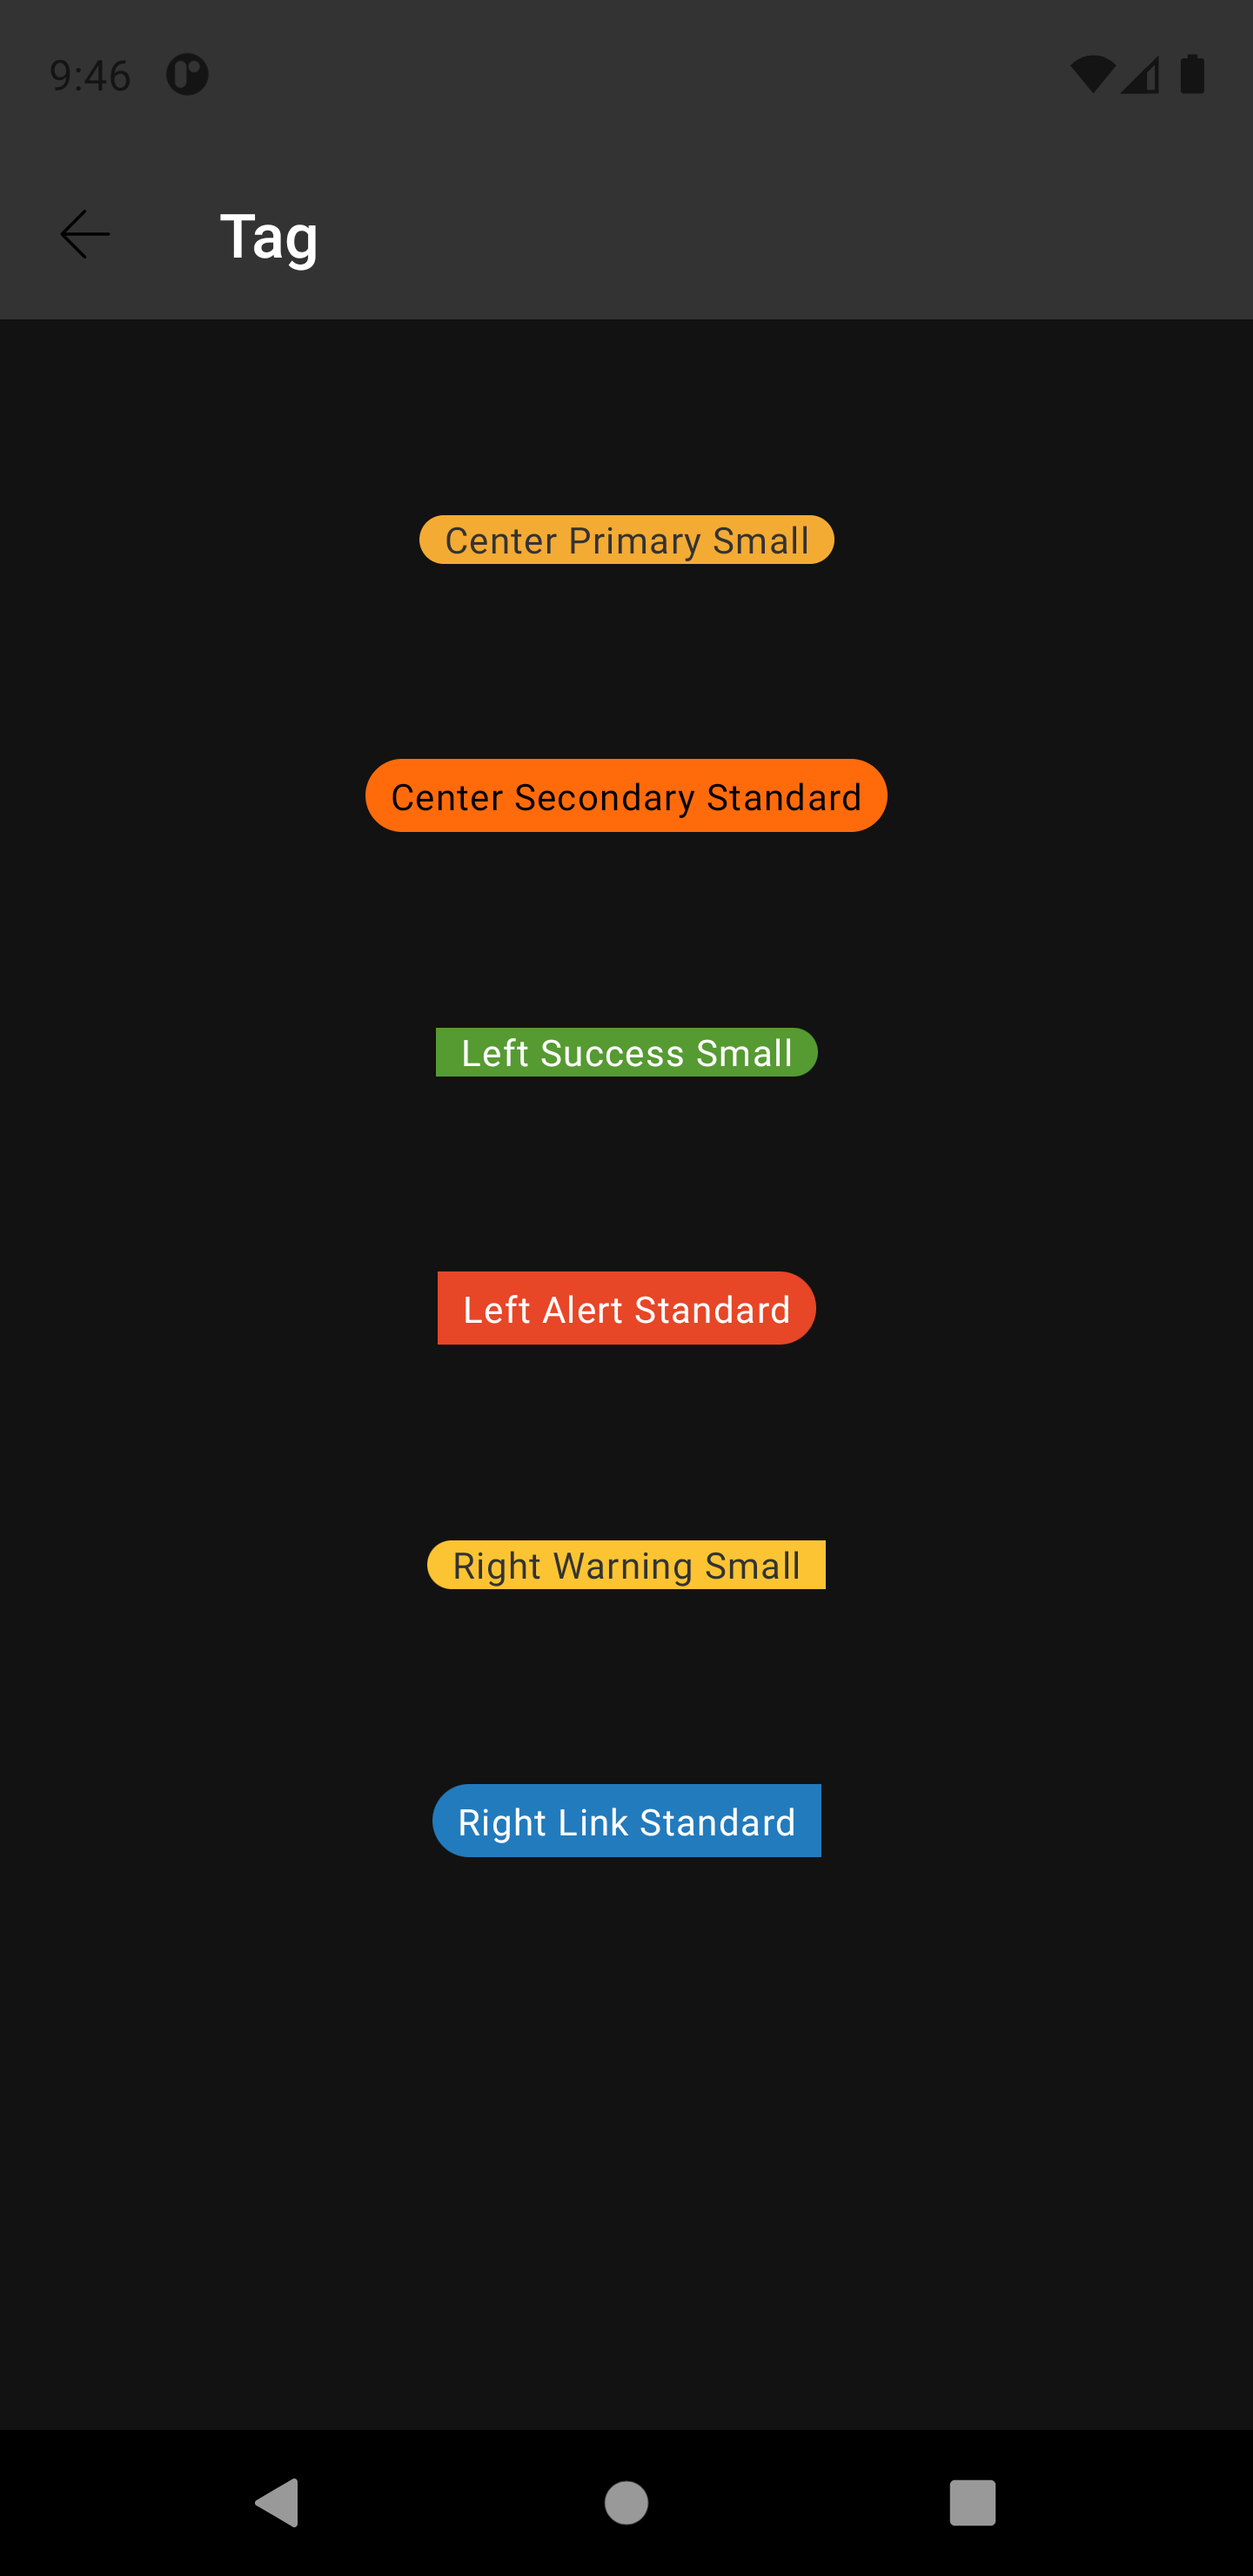
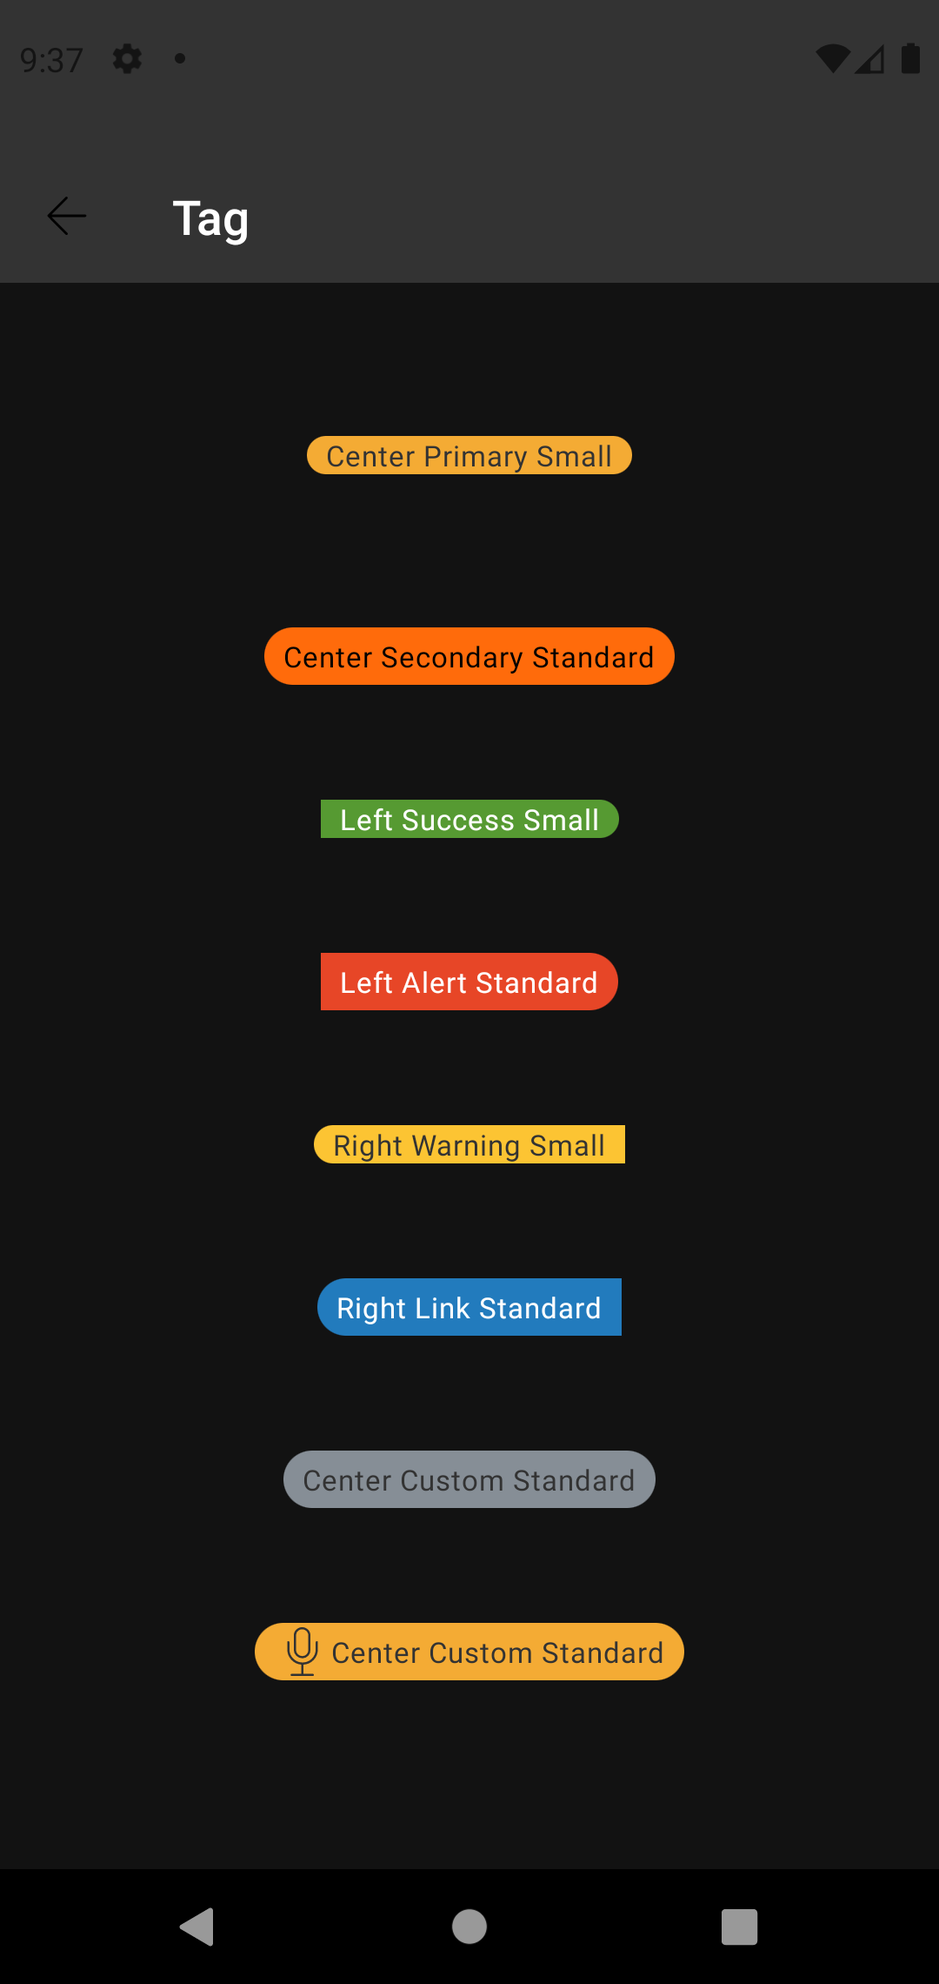
feat: adds tests and refactor documentation of tag Component

diff --git a/designsystem/src/test/kotlin/com/natura/android/tag/TagFixture.kt b/designsystem/src/test/kotlin/com/natura/android/tag/TagFixture.kt
@@ -6,10 +6,13 @@ import com.natura.android.R
 import org.robolectric.Robolectric
 
 internal class TagFixture private constructor(
-    private var type: Int = 0,
-    private var size: Int = 0,
-    private var position: Int = 0,
+    private var type: Int? = 0,
+    private var size: Int? = 0,
+    private var position: Int? = 0,
     private var label: String? = null,
+    private var icon: Int? = null,
+    private var backgroundColor: Int? = 0,
+    private var labelColor: Int? = 0,
     private var context: Context = ApplicationProvider.getApplicationContext()
 ) {
 
@@ -20,6 +23,7 @@ internal class TagFixture private constructor(
         private const val SUCCESS = 3
         private const val WARNING = 4
         private const val LINK = 5
+        private const val CUSTOM = 6
 
         private const val SMALL = 0
         private const val STANDARD = 1
@@ -32,11 +36,24 @@ internal class TagFixture private constructor(
         private const val defaultSize = SMALL
         private const val defaultPosition = CENTER
         private const val defaultLabel = "tag label"
+
+        private val defaultIcon = null
+        private const val defaultBackgroundColor = 1
+        private const val defaultLabelColor = 1
         private var context = ApplicationProvider.getApplicationContext<Context>()
 
         fun aTag(): TagFixture {
             context.setTheme(R.style.Theme_Natura_Light)
-            return TagFixture(defaultType, defaultSize, defaultPosition, defaultLabel, context)
+            return TagFixture(
+                defaultType,
+                defaultSize,
+                defaultPosition,
+                defaultLabel,
+                defaultIcon,
+                defaultBackgroundColor,
+                defaultLabelColor,
+                context
+            )
         }
 
         fun aEmptyTag(): TagFixture {
@@ -99,8 +116,30 @@ internal class TagFixture private constructor(
         return this
     }
 
+    fun withTypeCustom(): TagFixture {
+        this.type = CUSTOM
+        this.backgroundColor = 3
+        this.labelColor = 3
+        return this
+    }
+
     fun withLabel(label: String): TagFixture {
         this.label = label
+        return this
+    }
+
+    fun withIcon(icon: Int?): TagFixture {
+        this.icon = icon
+        return this
+    }
+
+    fun withCustomBackgroundColor(color: Int): TagFixture {
+        this.backgroundColor = color
+        return this
+    }
+
+    fun withCustomLabelColor(color: Int): TagFixture {
+        this.labelColor = color
         return this
     }
 
@@ -113,8 +152,11 @@ internal class TagFixture private constructor(
         val attributes = Robolectric
             .buildAttributeSet()
             .addAttribute(R.attr.tag_type, type.toString())
+            .addAttribute(R.attr.tag_background_color, backgroundColor.toString())
             .addAttribute(R.attr.textLabel, label)
             .addAttribute(R.attr.tag_size, size.toString())
+            .addAttribute(R.attr.tag_icon, icon.toString())
+            .addAttribute(R.attr.tag_label_color, labelColor.toString())
             .addAttribute(R.attr.tag_position, position.toString())
             .build()
 

diff --git a/designsystem/src/test/kotlin/com/natura/android/tag/TagTest.kt b/designsystem/src/test/kotlin/com/natura/android/tag/TagTest.kt
@@ -4,6 +4,7 @@ import android.content.Context
 import androidx.test.core.app.ApplicationProvider
 import androidx.test.ext.junit.runners.AndroidJUnit4
 import com.google.common.truth.Truth.assertThat
+import com.natura.android.R
 import org.junit.Before
 import org.junit.Test
 import org.junit.runner.RunWith
@@ -152,6 +153,14 @@ class TagTest {
             .build()
     }
 
+    @Test(expected = IllegalArgumentException::class)
+    fun shouldThrowsExceptionWhenBuildingTagWithCustomTypeWithoutColors() {
+        tag = TagFixture
+            .aEmptyTag()
+            .withTypeCustom()
+            .build()
+    }
+
     private fun buildTagAlert(): Tag {
         return TagFixture
             .aTag()
@@ -194,6 +203,13 @@ class TagTest {
             .build()
     }
 
+    private fun buildTagCustom(): Tag {
+        return TagFixture
+            .aTag()
+            .withTypeCustom()
+            .build()
+    }
+
     private fun buildTagSmall(): Tag {
         return TagFixture
             .aTag()
@@ -226,6 +242,27 @@ class TagTest {
         return TagFixture
             .aTag()
             .withPositionRight()
+            .build()
+    }
+
+    private fun buildTagWithIcon(): Tag {
+        return TagFixture
+            .aTag()
+            .withIcon(R.drawable.default_icon_outlined_default_mockup)
+            .build()
+    }
+
+    private fun buildTagWithCustomBackgroundColor(): Tag {
+        return TagFixture
+            .aTag()
+            .withCustomBackgroundColor(R.color.colorBrdNatGray)
+            .build()
+    }
+
+    private fun buildTagWithCustomLabelColor(): Tag {
+        return TagFixture
+            .aTag()
+            .withCustomBackgroundColor(R.color.colorBrdNatOrange)
             .build()
     }
 }

diff --git a/designsystem/src/main/kotlin/com/natura/android/tag/Tag.kt b/designsystem/src/main/kotlin/com/natura/android/tag/Tag.kt
@@ -68,6 +68,8 @@ class Tag @JvmOverloads constructor(
 
     fun getType(): Int = typeAttribute
 
+    fun getIcon(): Drawable? = iconAttribute
+
     fun getSize(): Int = sizeAttribute
 
     fun getPosition(): Int = positionAttribute
@@ -203,7 +205,7 @@ class Tag @JvmOverloads constructor(
     private fun setCustomBackgroundColorAttribute() {
         try {
             backgroundColorResourceAttribute =
-                tagAttributesArray.getResourceIdOrThrow(R.styleable.Tag_tag_custom_background_color)
+                tagAttributesArray.getResourceIdOrThrow(R.styleable.Tag_tag_background_color)
         } catch (e: Exception) {
             throw (
                 IllegalArgumentException(
@@ -217,7 +219,7 @@ class Tag @JvmOverloads constructor(
     private fun setCustomLabelColorAttribute() {
         try {
             labelTextColorResourceAttribute =
-                tagAttributesArray.getResourceIdOrThrow(R.styleable.Tag_tag_custom_label_color)
+                tagAttributesArray.getResourceIdOrThrow(R.styleable.Tag_tag_label_color)
         } catch (e: Exception) {
             throw (
                 IllegalArgumentException(
@@ -263,7 +265,6 @@ class Tag @JvmOverloads constructor(
             throw (
                 IllegalArgumentException(
                     "⚠ ⚠ Missing tag required argument. You MUST set the tag label(string).",
-                    e
                 )
                 )
         }

diff --git a/sample/src/test/kotlin/com/natura/android/sample/components/TagActivityTest.kt b/sample/src/test/kotlin/com/natura/android/sample/components/TagActivityTest.kt
@@ -180,6 +180,15 @@ class TagActivityTest {
         }
     }
 
+    @Test
+    fun checkTagCustom() {
+        tagScenario.onActivity {
+            val customColor = it.findViewById<Tag>(R.id.tagCustomColor)
+
+            Truth.assertThat(customColor.getType()).isEqualTo(TYPE_CUSTOM)
+        }
+    }
+
     companion object {
         const val TYPE_PRIMARY = 0
         const val TYPE_ALERT = 1
@@ -187,6 +196,7 @@ class TagActivityTest {
         const val TYPE_SUCCESS = 3
         const val TYPE_WARNING = 4
         const val TYPE_LINK = 5
+        const val TYPE_CUSTOM = 6
 
         const val POSITION_CENTER = 0
         const val POSITION_LEFT = 1

diff --git a/sample/src/main/kotlin/com/natura/android/sample/components/TagActivity.kt b/sample/src/main/kotlin/com/natura/android/sample/components/TagActivity.kt
@@ -3,6 +3,7 @@ package com.natura.android.sample.components
 import android.os.Bundle
 import android.view.MenuItem
 import androidx.appcompat.app.AppCompatActivity
+import com.natura.android.sample.R
 import com.natura.android.sample.databinding.ActivityTagBinding
 import com.natura.android.sample.setChosenDefaultTheme
 
@@ -16,6 +17,7 @@ class TagActivity : AppCompatActivity() {
 
         binding = ActivityTagBinding.inflate(layoutInflater)
 
+        binding.tagWithIcon.tag = R.drawable.outlined_action_mic
         setContentView(binding.root)
 
         supportActionBar?.title = "Tag"

diff --git a/doc/tag.md b/doc/tag.md
@@ -29,11 +29,13 @@ With the following attribute status:
 ## Attributes
 | Attr | Description | Type | Options |
 | - | --- | --- | --- |
-|`app:tag_type`|  Sets the component color.| string | primary(default), alert, secondary, success, warning or link |
+|`app:tag_type`|  Sets the component color.| string | primary(default), alert, secondary, success, warning, link or custom |
 |`app:tag_size`| Sets the component size.| string | small(default) or standard
 |`app:tag_position`| Defines the layout of ends, according to the desired position of the component. | string | center(default), left or right
-|`app:text_field_label`| Defines the Label showed inside the component. | string | text
-
+|`app:textLabel`| Defines the Label showed inside the component. | string | text
+|`app:tag_icon`| Defines the icon showed inside the component. | string | text
+|`app:tag_background_color`| Defines the custom color for the background, when the type is custom. | resource | color
+|`app:tag_label_color`| Defines the custom color for the label, when the type is custom. | resource | color
 ## Usage examples
 Tag with position center, primary type and small size
 
@@ -97,6 +99,27 @@ Tag with position right, warning type and small size
         app:tag_type="warning"
         app:tag_position="right"
         app:textLabel="Right Warning Small" />
+```
+
+<br><br>
+Tag with icon and custom color
+
+![Tag With Icon](./images/tag_withIcon.png)
+
+#### Layout XML
+
+```android
+    <com.natura.android.tag.Tag
+        android:id="@+id/tagWithIcon"
+        android:layout_width="wrap_content"
+        android:layout_height="wrap_content"
+        app:tag_icon="@drawable/outlined_action_mic"
+        app:tag_position="center"
+        app:tag_size="standard"
+        app:tag_type="custom"
+        app:tag_background_color="?colorNeutral300"
+        app:tag_label_color="?colorOnPrimary"
+        app:textLabel="Tag" />
 ```
 
 #### Kotlin
